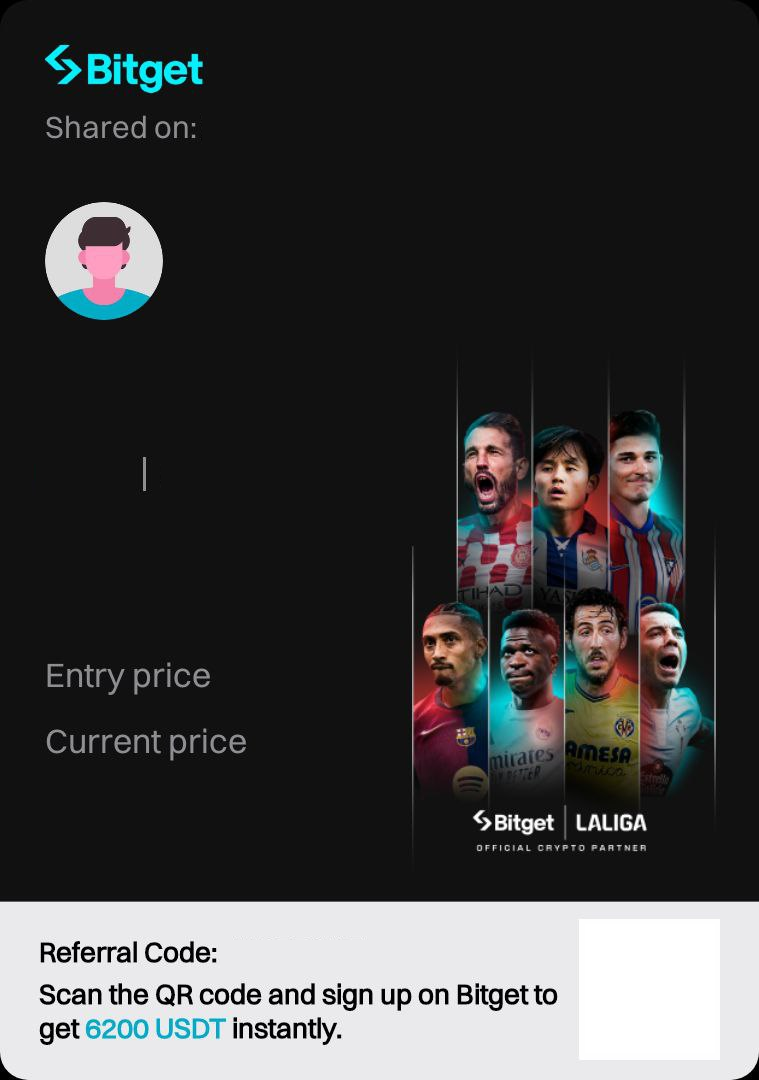
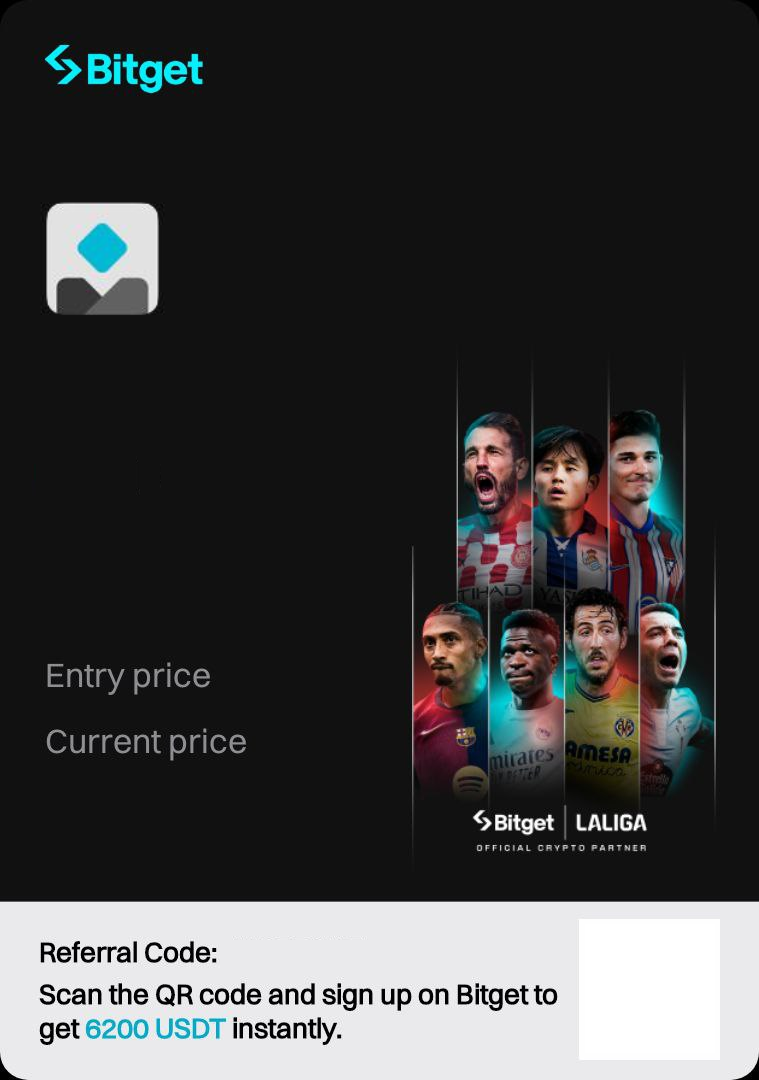
FEAT: Added Bitget5

Changed region(s): [[0.0606, 0.1833, 0.2121, 0.3056], [0.0606, 0.0917, 0.2424, 0.1528], [0.1818, 0.4278, 0.2121, 0.4583]]

diff --git a/image/report_generator/report_classes/bitget/Bitget5.py b/image/report_generator/report_classes/bitget/Bitget5.py
@@ -1,0 +1,72 @@
+from image.report_generator.utils.generic import separate_price
+from ..BaseReport import BaseReport
+
+
+class Bitget5(BaseReport):
+    def __init__(
+        self, report_data: dict, extra_features: list[str] = [], drag_and_drop=False
+    ) -> None:
+        super().__init__(report_data, extra_features, drag_and_drop)
+        print((self.tz_delta.days * 86400 + self.tz_delta.seconds) // 3600)  # pyright: ignore[reportOptionalMemberAccess]
+        self.draw_date(
+            string_function=lambda x: x.strftime("Shared on: %Y-%m-%d %H:%M (UTC")
+            + ("+" if self.tz_delta.days >= 0 else "")  # pyright: ignore[reportOptionalMemberAccess]
+            + str((self.tz_delta.days * 86400 + self.tz_delta.seconds) // 3600)  # pyright: ignore[reportOptionalMemberAccess]
+            + ")",
+        )
+        self.draw_symbol(string_function=lambda x: x.replace(" Perpetual", "").upper())
+        self.draw_signal_type_leverage()
+        self.draw_roi()
+        self.draw_entry(string_function=separate_price)
+        self.draw_target(string_function=separate_price)
+        self.draw_referral()
+        self.draw_username()
+        self.draw_user_at()
+        self.draw_qr()
+
+    def draw_signal_type_leverage(self):
+        signal_type_color = (
+            self._get_element_styling("signal_type").short_color
+            if self.signal_type == "short"
+            else self._get_element_styling("signal_type").long_color
+        )
+        signal_type_element = self.report_html.create_inline_text(
+            text=f"{self.signal_type.capitalize()}",
+            font_name=self._get_element_styling("signal_type").font,
+            font_size=self._get_element_styling("signal_type").font_size,
+            font_color=signal_type_color,
+            additional_styles={
+                "letter-spacing": "-1px",
+            },
+        )
+        separator = self.report_html.create_separator(
+            color=self._get_element_styling("signal_type").separator_color,
+            width=self._get_element_styling("signal_type").separator_width,
+            length=self._get_element_styling("signal_type").separator_length,
+            additional_styles={
+                "margin": f"0px {self._get_element_styling('signal_type').gap / 2}px",
+            },
+        )
+        leverage_element = self.report_html.create_inline_text(
+            text=str(self.leverage) + "x",
+            font_name=self._get_element_styling("leverage").font,
+            font_size=self._get_element_styling("leverage").font_size,
+            font_color=self._get_element_styling("leverage").color,
+        )
+
+        self.report_html.add_inline_elements(
+            elements=[signal_type_element, separator, leverage_element],
+            position=self._get_element_styling("signal_type").position,
+            justify_content="left",
+        )
+
+    def draw_user_at(self):
+        user_at_styling = self._get_element_styling("user_at")
+        username_text = "@" + self.username
+        self.report_html.add_text(
+            text=username_text,
+            position=user_at_styling.position,
+            font_name=user_at_styling.font,
+            font_size=user_at_styling.font_size,
+            font_color=user_at_styling.color,
+        )

diff --git a/static/styling_dict.py b/static/styling_dict.py
@@ -688,6 +688,77 @@ styling_dict = {
         "draw_datetime": True,
         "draw_username": True,
     },
+    "bitget_5": {
+        "symbol": ElementStyling(
+            position=Position(x=0.06277776647497106, y=0.3452256917953491),
+            font="Switzer-Medium.otf",
+            font_size=38,
+            color="white",
+        ),
+        "signal_type": ElementStyling(
+            position=Position(x=0.05907406277126736, y=0.4040147662162781),
+            font="Switzer-Medium.otf",
+            font_size=35,
+            gap=32,
+            separator_color="#999999",
+            separator_length=23,
+            separator_width=2,
+            short_color="#d95374",
+            long_color="#02add6",
+            leverage_color="#999999",
+        ),
+        "leverage": ElementStyling(
+            font="Switzer-Medium.otf",
+            font_size=33.75,
+            color="#999999",
+        ),
+        "roi": ElementStyling(
+            position=Position(x=0.06083334463614005, y=0.4746527870496114),
+            font="Switzer-Medium.otf",
+            font_size=98.4,
+            color="#02add6",
+        ),
+        "entry": ElementStyling(
+            position=Position(x=0.35276679841897235, y=0.6046296155011213),
+            font="Switzer-Medium.otf",
+            font_size=33.75,
+            color="white",
+        ),
+        "target": ElementStyling(
+            position=Position(x=0.35439174888319336, y=0.6643826943856699),
+            font="Switzer-Medium.otf",
+            font_size=33.75,
+            color="white",
+        ),
+        "referral": ElementStyling(
+            position=Position(x=0.297746898509838, y=0.8619357546170553),
+            font="Switzer-Medium.otf",
+            font_size=28.125,
+            color="black",
+        ),
+        "qr": ElementStyling(
+            position=Position(x=0.7701800400403491, y=0.8568364178692853),
+            size=130,
+        ),
+        "username": ElementStyling(
+            position=Position(x=0.23987655639648436, y=0.19079862038294473),
+            font="Switzer-Semibold.otf",
+            font_size=50.625,
+            color="white",
+        ),
+        "user_at": ElementStyling(
+            position=Position(x=0.2380247045446325, y=0.24939237038294473),
+            font="Switzer-Regular.otf",
+            font_size=30.9375,
+            color="#7b7b7b",
+        ),
+        "date": ElementStyling(
+            position=Position(x=0.053580248797381366, y=0.09637586275736491),
+            font="Switzer-Regular.otf",
+            font_size=30.9375,
+            color="#999999",
+        ),
+    },
     "mexc_1": {
         "symbol": ElementStyling(
             position=Position(0.058, 0.3),

diff --git a/tg/handler_functions/helpers/templates.py b/tg/handler_functions/helpers/templates.py
@@ -14,7 +14,38 @@ TEMPLATES = {
         "Extra 2": {"qr": "binance_8", "referral": "8463691712"},
     },
     "bybit": {},
-    "bitget": {},
+    "bitget": {
+        "Board Main": {
+            "qr": "bitget_1",
+            "referral": "2BI76BMK",
+            "username": "BGUSER-2BI76BMK",
+        },
+        "Board Free": {
+            "qr": "bitget_1",
+            "referral": "8LR12MLD",
+            "username": "BGUSER-8LR12MLD",
+        },
+        "CAN Main": {
+            "qr": "bitget_4",
+            "referral": "1HN38KYX",
+            "username": "BGUSER-1HN38KYX",
+        },
+        "CAN Free": {
+            "qr": "bitget_5",
+            "referral": "1WC67QCZ",
+            "username": "BGUSER-1WC67QCZ",
+        },
+        "Turk Main": {
+            "qr": "bitget_5",
+            "referral": "SOV2XR",
+            "username": "ta***1@gmail.com",
+        },
+        "Turk Free": {
+            "qr": "bitget_4",
+            "referral": "3VH98ACX",
+            "username": "BGUSER-3VH98ACX",
+        },
+    },
     "mexc": {
         "Board Main": {"qr": "binance_1", "referral": "69r4f"},
         "Board Free": {"qr": "binance_5", "referral": "67x8w"},
@@ -27,13 +58,13 @@ TEMPLATES = {
     "bingx": {
         "Board Main": {
             "qr": "binance_2",
-            "referral": "NKE6GL",
+            "referral": "HS9GWL",
             "username": "al**7@gmail.com",
             "avatar": "bingx_board",
         },
         "Board Free": {
             "qr": "binance_6",
-            "referral": "HRB7WN",
+            "referral": "FP4L5G",
             "username": "al**7@gmail.com",
             "avatar": "bingx_board",
         },

diff --git a/static/keyboards_statics.py b/static/keyboards_statics.py
@@ -1,7 +1,7 @@
 EXCHANGE_LIST = [
     # {"label": "ByBit", "callback_query": "bybit"},
     {"label": "Binance", "callback_query": "binance"},
-    # {"label": "BitGet", "callback_query": "bitget"},
+    {"label": "BitGet", "callback_query": "bitget"},
     {"label": "MEXC", "callback_query": "mexc"},
     {"label": "BingX", "callback_query": "bingx"},
     # {"label": "OKX", "callback_query": "okx"},
@@ -26,6 +26,7 @@ IMAGE_LIST = {
         # {"label": "BitGet 2", "callback_query": "bitget_2", "image_list_label": 2},
         # {"label": "BitGet 3", "callback_query": "bitget_3", "image_list_label": 3},
         # {"label": "BitGet 4", "callback_query": "bitget_4", "image_list_label": 4},
+        {"label": "BitGet 5", "callback_query": "bitget_5", "image_list_label": 5},
     ],
     "mexc": [
         # {"label": "MEXC 1", "callback_query": "mexc_1", "image_list_label": 1},

diff --git a/static/report_class_mapping.py b/static/report_class_mapping.py
@@ -3,11 +3,13 @@ This dict contains a mapping of each image id to its relevant report class.
 """
 
 from image.report_generator.report_classes.BaseReport import BaseReport
+from image.report_generator.report_classes.bitget.Bitget5 import Bitget5
 from image.report_generator.report_classes.bingx.Bingx10 import Bingx10
 from image.report_generator.report_classes.mexc.Mexc7 import Mexc7
 from image.report_generator.report_classes.binance.Binance6 import Binance6
 
 MAPPING: dict[str, type[BaseReport]] = {
+    "bitget_5": Bitget5,
     "bingx_10": Bingx10,
     "mexc_7": Mexc7,
     "binance_6": Binance6,

diff --git a/tg/handler_functions/helpers/utilities.py b/tg/handler_functions/helpers/utilities.py
@@ -49,8 +49,6 @@ def get_pair_precision(symbol: str, exchange: str) -> int | None:
         reader = csv.reader(f)
         for row in reader:
             if row[0] == symbol:
-                print(row)
-                print(column_numbers[exchange])
                 field_string = row[column_numbers[exchange]]
                 if field_string:
                     return int(field_string)

diff --git a/tg/handler_functions/helpers/extra_features.py b/tg/handler_functions/helpers/extra_features.py
@@ -5,6 +5,7 @@ As
 """
 
 extra_features = {
+    "bitget_5": ["date"],
     "bingx_10": ["date"],
     "mexc_7": ["margin", "date", "input_date"],
     "binance_6": ["margin", "date"],
